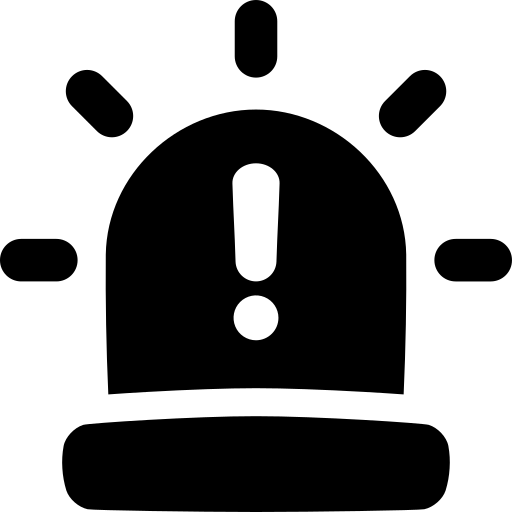
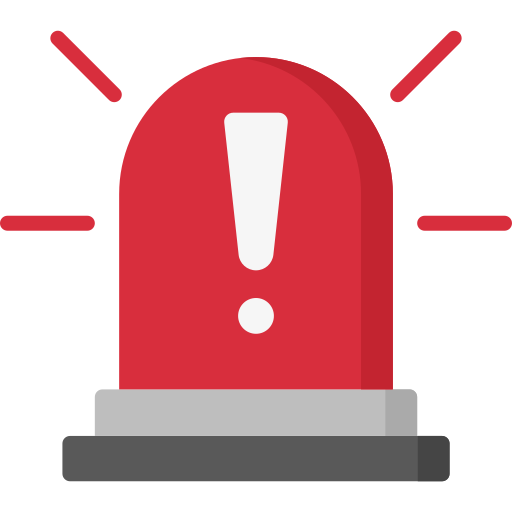
minor again

diff --git a/capsone-barangay-portal/app/(resident-side)/components/homePage.tsx b/capsone-barangay-portal/app/(resident-side)/components/homePage.tsx
@@ -153,7 +153,9 @@ useEffect(() => {
        <div className="main-content-home fade-slide-up" ref={heroRef}>
           <h1 className="main-heading-home">Welcome to Barangay Fairview</h1>
           <p className="main-subheading-home">Delivering fast, transparent, and accessible local services for our community.</p>
+           <Link href="/aboutus"> 
           <button className="main-button-home">Learn More</button>
+          </Link>
         </div>
 
       </div>
@@ -175,6 +177,8 @@ useEffect(() => {
         <div className="second-section-home-lower fade-slide-up"  ref={servicesRef}>
 
           <div className="services-content-home">
+
+              
                 <div className="services-card">
 
                     <div className="services-image">
@@ -187,11 +191,12 @@ useEffect(() => {
 
                     </div>
                 </div>
-
+          
                <div className="services-card">
 
+                  
                     <div className="services-image">
-                       <img src="/Images/incident.png" alt="Incident Report Icon" className="icon-image red-tint" />
+                       <img src="/Images/incident.png" alt="Incident Report Icon" className="icon-image" />
 
                     </div>
 
@@ -206,7 +211,7 @@ useEffect(() => {
                    <div className="services-card">
 
                     <div className="services-image">
-                        <img src="/Images/training-program.png" alt="Document Request Icon" className="icon-image green-tint" />
+                        <img src="/Images/training-program.png" alt="Document Request Icon" className="icon-image" />
                     </div>
 
                     <div className="services-description">
@@ -248,7 +253,10 @@ useEffect(() => {
                             Captain Jonel Quebal and his vision for Barangay Fairview. Read his blog to stay
                             connected and inspired!
       </p>
+      
+       <Link href="/aboutus"> 
       <button className="captain-button">Contact Us</button>
+       </Link>
     </div>
   </div>
 </div>

diff --git a/capsone-barangay-portal/CSS/HomePage/HomePage.css b/capsone-barangay-portal/CSS/HomePage/HomePage.css
@@ -487,7 +487,8 @@ TRY NEW
 }
 
 .main-button-home:hover {
-  background-color: #e2e2e2;
+  background-color: #214666;
+  color: white;
 }
 
 
@@ -535,6 +536,11 @@ position: relative;
   height: 100%;
 }
 
+.services-card-container {
+  width: 100%;
+  height: 100%;
+}
+
 .section-content-home h2 {
    font-size: 3.5rem;
   font-weight: bold;
@@ -579,6 +585,7 @@ position: relative;
   height: 80px;
     transition: transform 0.3s ease;
 }
+
 
 
 .red-tint {
